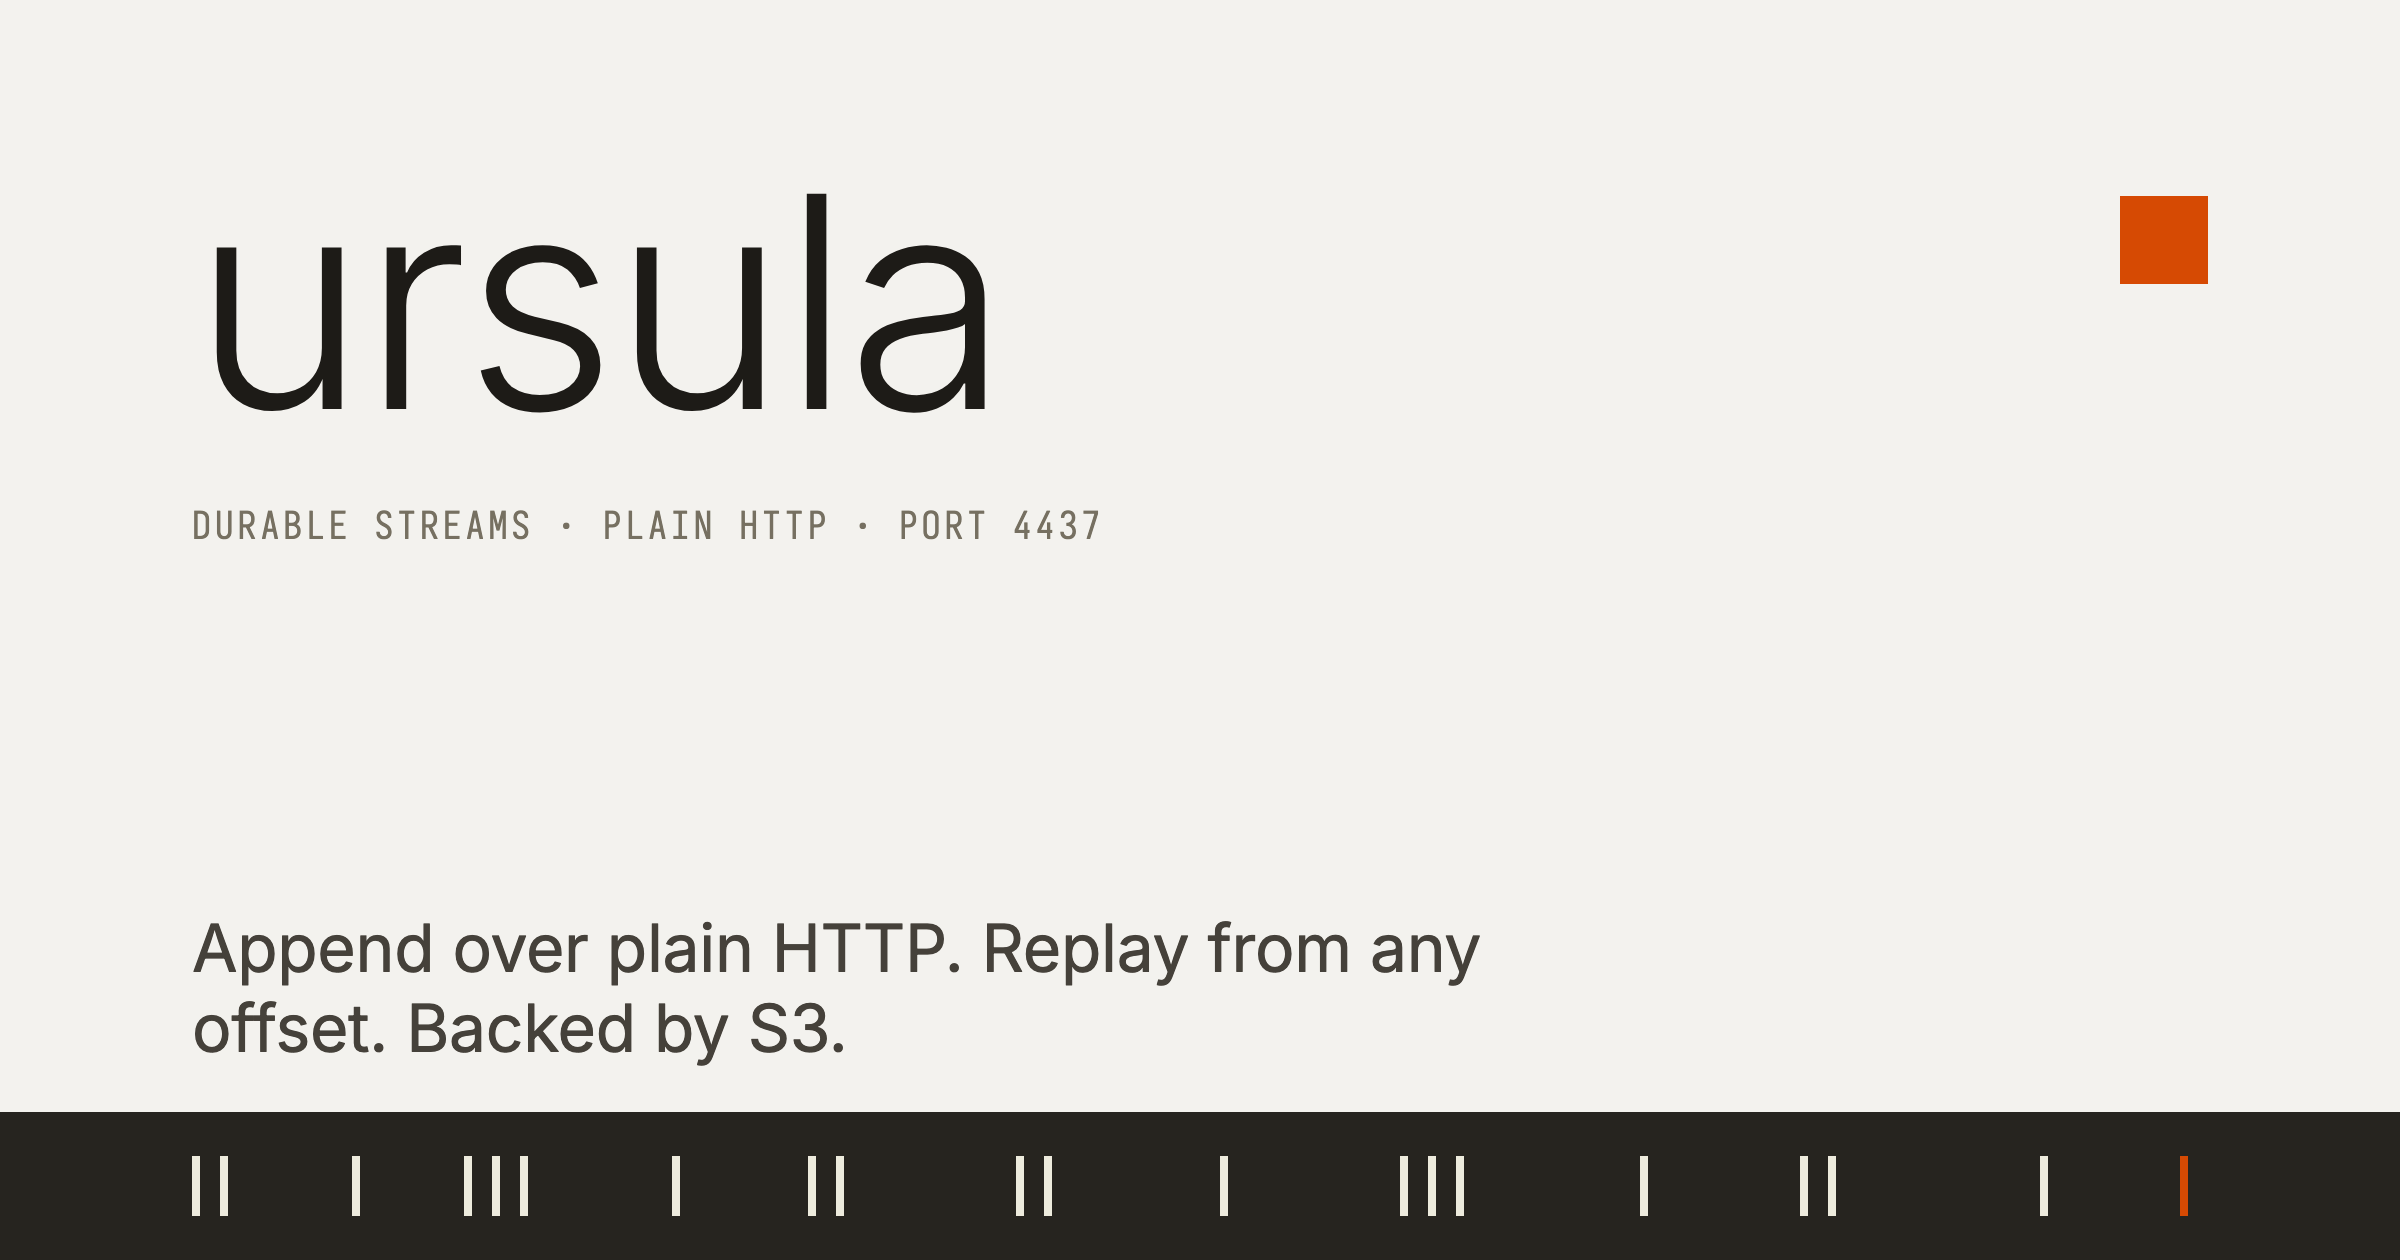
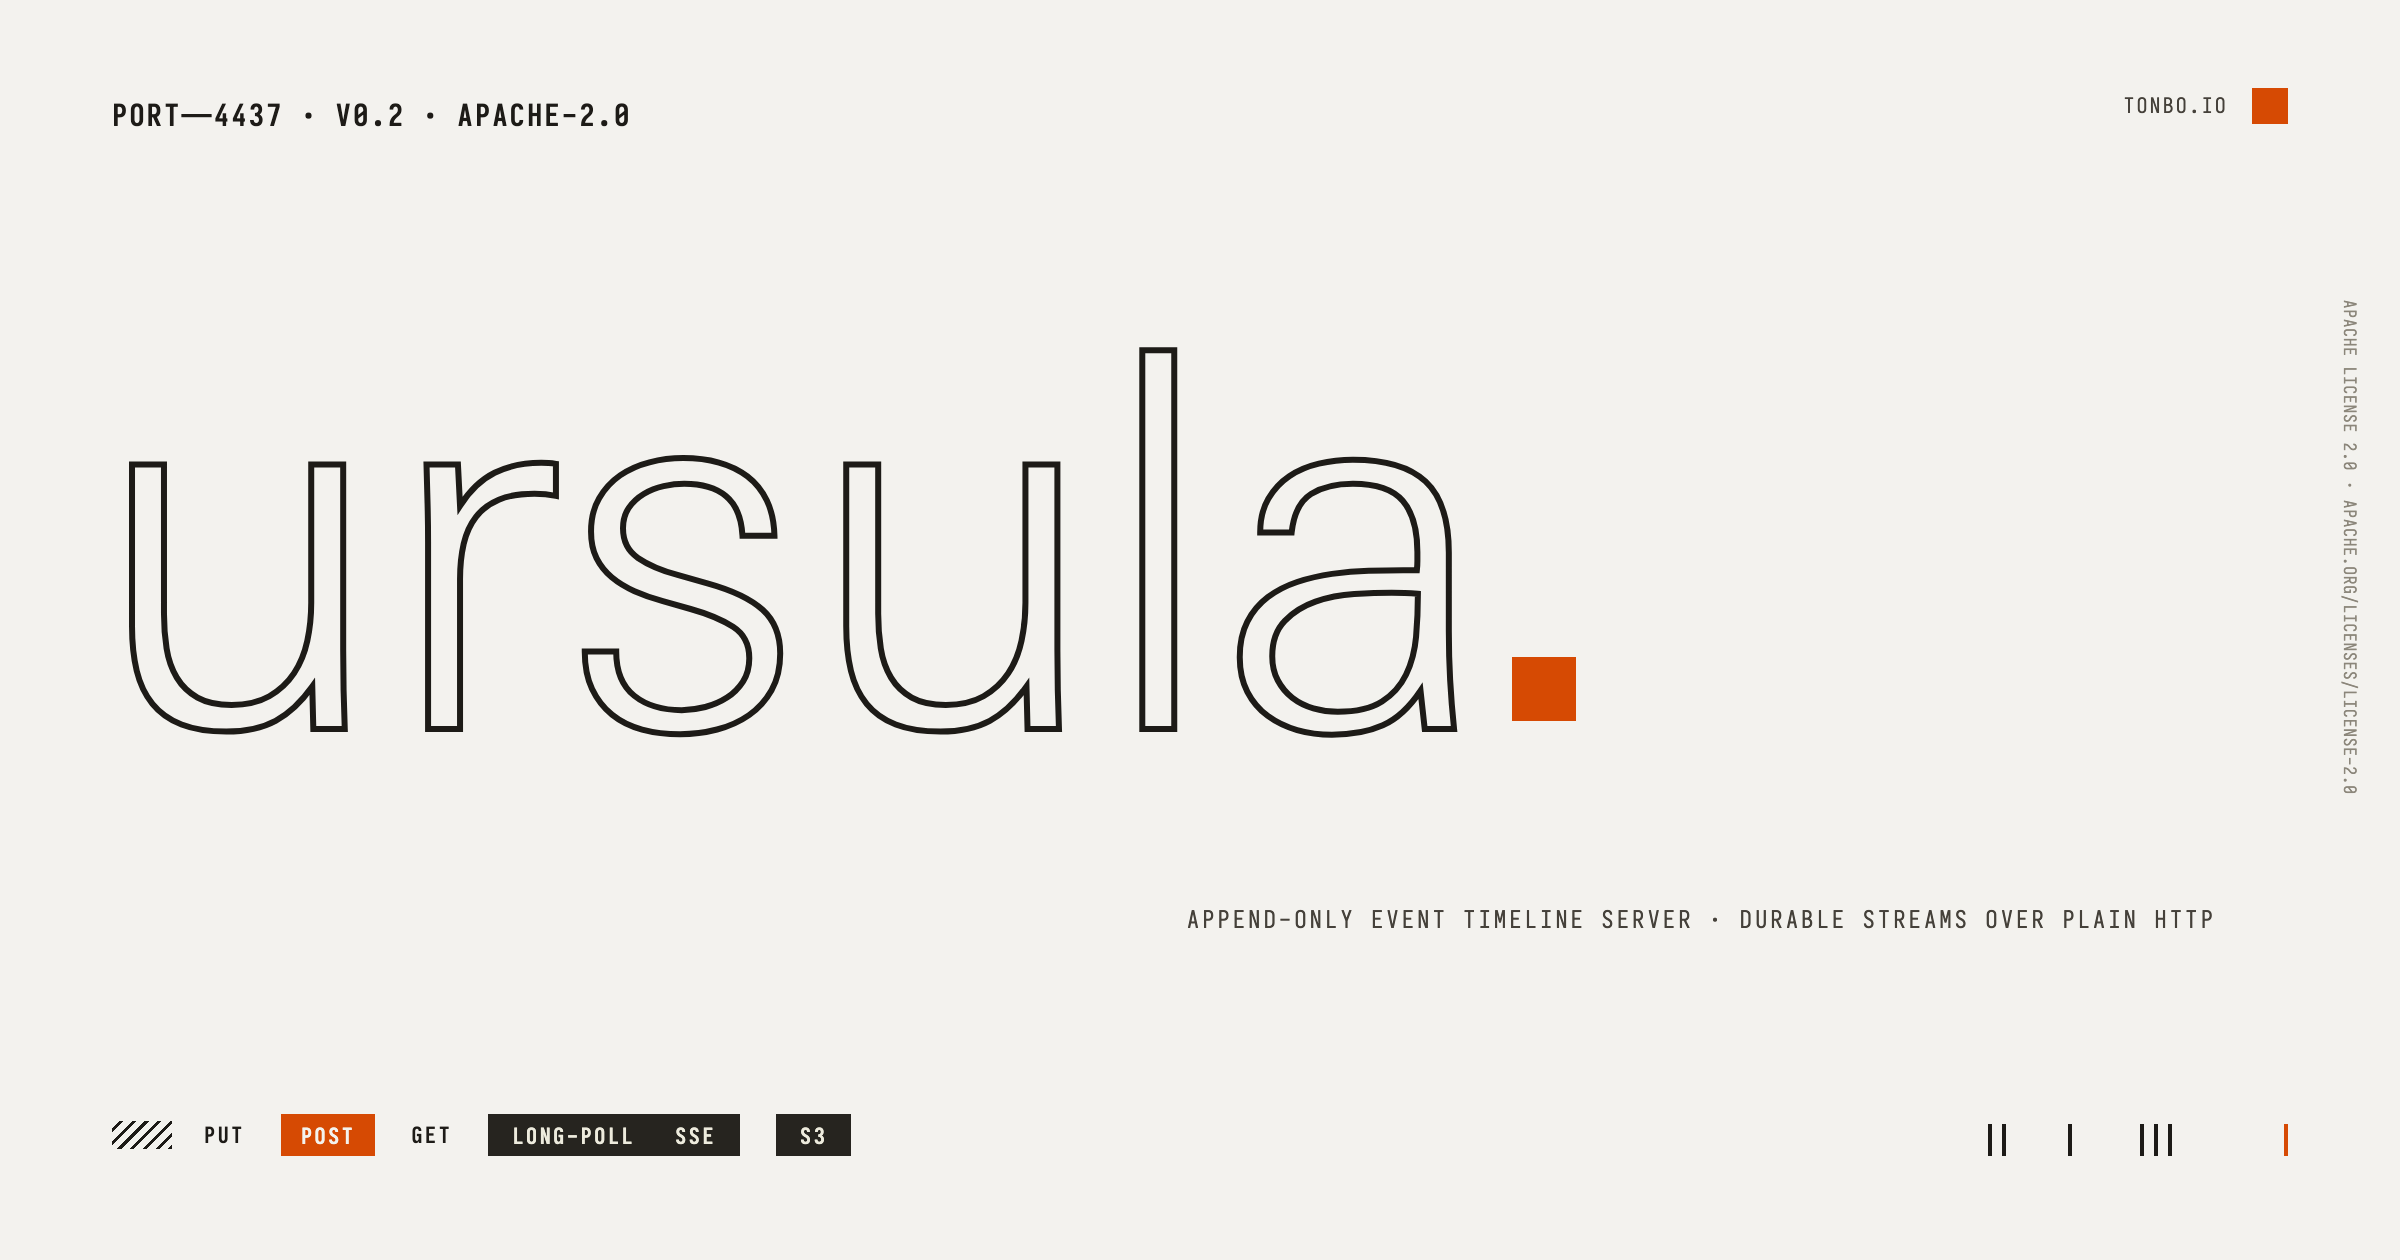
docs(web): ship licensed Univers Next webfonts and TE-style social card
- Serve the licensed Linotype webfont kit (Tonbo-{Thin,Light,Regular,
  Medium}.woff) via url()-only @user; weights remapped one notch
  down TE-style: 100-349 Thin, 350-549 Light, 550-649 Regular, 650+
  Medium. No local() sources, so visitors with stray desktop cuts
  installed render the same bytes as everyone else
- Hero headline set on four explicit lines with "over" on its own line
- Social card rebuilt on the K.O. II grammar: one giant outline
  wordmark with an orange full stop, fine print at the edges (model
  line, maker mark, vertical Apache notice), miniature ports row
  (PUT / POST / GET / LONG-POLL SSE / S3) and event ticks; the card
  master lives at assets/og-card.html and renders with the shipped
  woffs over a local server

diff --git a/docs/web/assets/og-card.html b/docs/web/assets/og-card.html
@@ -1,0 +1,188 @@
+<!DOCTYPE html>
+<html>
+<head>
+<meta charset="utf-8">
+<style>
+  @font-face {
+    font-family: "Univers Next Pro Web";
+    font-weight: 100 349;
+    src: url("/fonts/Tonbo-Thin.woff") format("woff");
+  }
+  @font-face {
+    font-family: "Univers Next Pro Web";
+    font-weight: 350 549;
+    src: url("/fonts/Tonbo-Light.woff") format("woff");
+  }
+  @font-face {
+    font-family: "Univers Next Pro Web";
+    font-weight: 550 1000;
+    src: url("/fonts/Tonbo-Regular.woff") format("woff");
+  }
+  @font-face {
+    font-family: "Iosevka";
+    font-weight: 400;
+    src: url("/fonts/Iosevka-Regular.woff2") format("woff2");
+  }
+  @font-face {
+    font-family: "Iosevka";
+    font-weight: 700;
+    src: url("/fonts/Iosevka-Bold.woff2") format("woff2");
+  }
+  * { margin: 0; padding: 0; box-sizing: border-box; }
+  html, body { width: 1200px; height: 630px; }
+  body {
+    background: #f3f2ee;
+    color: #1d1b17;
+    font-family: "Univers Next Pro Web", "Helvetica Neue", sans-serif;
+    overflow: hidden;
+    position: relative;
+  }
+
+  /* One giant thing; everything else is a whisper at the edges. */
+
+  .model {
+    font-family: "Iosevka", monospace;
+    font-size: 15px;
+    font-weight: 700;
+    left: 56px;
+    letter-spacing: 0.08em;
+    position: absolute;
+    top: 48px;
+  }
+  .maker {
+    align-items: center;
+    display: flex;
+    gap: 12px;
+    position: absolute;
+    right: 56px;
+    top: 44px;
+  }
+  .maker .who {
+    color: #45413a;
+    font-family: "Iosevka", monospace;
+    font-size: 10.5px;
+    letter-spacing: 0.12em;
+    text-transform: uppercase;
+  }
+  .maker .sq { background: #d64a03; height: 18px; width: 18px; }
+
+  .lic {
+    color: #8b867a;
+    font-family: "Iosevka", monospace;
+    font-size: 8.5px;
+    letter-spacing: 0.06em;
+    position: absolute;
+    right: 20px;
+    text-transform: uppercase;
+    top: 150px;
+    writing-mode: vertical-rl;
+  }
+
+  .word {
+    left: 44px;
+    position: absolute;
+    top: 168px;
+  }
+  .word .big {
+    -webkit-text-fill-color: transparent;
+    -webkit-text-stroke: 3px #1d1b17;
+    font-size: 262px;
+    font-weight: 400;
+    letter-spacing: -0.012em;
+    line-height: 1;
+  }
+  .word .stop {
+    background: #d64a03;
+    bottom: 4px;
+    display: inline-block;
+    height: 32px;
+    margin-left: 12px;
+    position: relative;
+    width: 32px;
+  }
+  .category {
+    color: #45413a;
+    font-family: "Iosevka", monospace;
+    font-size: 12px;
+    font-weight: 400;
+    letter-spacing: 0.14em;
+    position: absolute;
+    right: 92px;
+    text-transform: uppercase;
+    top: 452px;
+  }
+
+  .ports {
+    align-items: center;
+    bottom: 52px;
+    display: flex;
+    left: 56px;
+    position: absolute;
+  }
+  .hatch {
+    background: repeating-linear-gradient(-45deg, #1d1b17 0 1.5px, transparent 1.5px 4.5px);
+    height: 14px;
+    margin-right: 16px;
+    width: 30px;
+  }
+  .plabel {
+    font-family: "Iosevka", monospace;
+    font-size: 11px;
+    font-weight: 700;
+    letter-spacing: 0.12em;
+    margin-right: 18px;
+  }
+  .pblock {
+    background: #d64a03;
+    color: #f3f2ee;
+    font-family: "Iosevka", monospace;
+    font-size: 11px;
+    font-weight: 700;
+    letter-spacing: 0.12em;
+    margin-right: 18px;
+    padding: 4px 10px 3px;
+  }
+  .pbar {
+    background: #26241f;
+    color: #edebdd;
+    display: flex;
+    font-family: "Iosevka", monospace;
+    font-size: 11px;
+    font-weight: 700;
+    gap: 20px;
+    letter-spacing: 0.12em;
+    margin-right: 18px;
+    padding: 4px 12px 3px;
+  }
+
+  /* our own event ticks, quiet, one hot */
+  .ticks { bottom: 52px; height: 22px; position: absolute; right: 56px; width: 150px; }
+  .ticks i { background: #1d1b17; bottom: 0; height: 16px; position: absolute; width: 2px; }
+  .ticks i.hot { background: #d64a03; }
+</style>
+</head>
+<body>
+  <div class="model">PORT—4437 · V0.2 · APACHE-2.0</div>
+  <div class="maker"><span class="who">tonbo.io</span><span class="sq"></span></div>
+
+  <div class="lic">apache license 2.0 · apache.org/licenses/license-2.0</div>
+
+  <div class="word"><span class="big">ursula</span><span class="stop"></span></div>
+  <div class="category">append-only event timeline server · durable streams over plain http</div>
+
+  <div class="ports">
+    <div class="hatch"></div>
+    <div class="plabel">PUT</div>
+    <div class="pblock">POST</div>
+    <div class="plabel">GET</div>
+    <div class="pbar"><span>LONG-POLL</span><span>SSE</span></div>
+    <div class="pbar" style="margin-right:0"><span>S3</span></div>
+  </div>
+
+  <div class="ticks">
+    <i style="left:0"></i><i style="left:7px"></i><i style="left:40px"></i>
+    <i style="left:76px"></i><i style="left:83px"></i><i style="left:90px"></i>
+    <i class="hot" style="left:148px"></i>
+  </div>
+</body>
+</html>

diff --git a/docs/web/src/styles/index.css b/docs/web/src/styles/index.css
@@ -1,47 +1,36 @@
-/* Tonbo, weight-remapped onto the cuts the homepage uses. */
+/* Tonbo: Univers Next Pro webfont kit, weight-remapped one notch down
+   (TE-style): declared 300 gets Thin, body 400 gets Light. url() only —
+   no local() fallbacks, so every visitor renders the licensed bytes. */
 @font-face {
   font-family: "Tonbo";
   font-style: normal;
-  font-weight: 100 249;
+  font-weight: 100 349;
   font-display: swap;
-  src:
-    url("/fonts/Tonbo-Thin.woff") format("woff"),
-    local("Univers Next Pro Thin"),
-    local("UniversNextPro-Thin");
+  src: url("/fonts/Tonbo-Thin.woff") format("woff");
 }
 
 @font-face {
   font-family: "Tonbo";
   font-style: normal;
-  font-weight: 250 399;
+  font-weight: 350 549;
   font-display: swap;
-  src:
-    url("/fonts/Tonbo-Light.woff") format("woff"),
-    local("Univers Next Pro Light"),
-    local("UniversNextPro-Light");
+  src: url("/fonts/Tonbo-Light.woff") format("woff");
 }
 
 @font-face {
   font-family: "Tonbo";
   font-style: normal;
-  font-weight: 400 449;
+  font-weight: 550 649;
   font-display: swap;
-  src:
-    url("/fonts/Tonbo-Regular.woff") format("woff"),
-    local("Univers Next Pro Regular"),
-    local("UniversNextPro-Regular"),
-    local("Univers Next Pro");
+  src: url("/fonts/Tonbo-Regular.woff") format("woff");
 }
 
 @font-face {
   font-family: "Tonbo";
   font-style: normal;
-  font-weight: 450 1000;
+  font-weight: 650 1000;
   font-display: swap;
-  src:
-    url("/fonts/Tonbo-Medium.woff") format("woff"),
-    local("Univers Next Pro Medium"),
-    local("UniversNextPro-Medium");
+  src: url("/fonts/Tonbo-Medium.woff") format("woff");
 }
 
 @font-face {

diff --git a/docs/web/src/pages/HomePage.tsx b/docs/web/src/pages/HomePage.tsx
@@ -274,7 +274,9 @@ function HomePage() {
             <h1>
               Durable streams
               <br />
-              over <span className="hx">plain&nbsp;HTTP</span>,
+              over
+              <br />
+              <span className="hx">plain&nbsp;HTTP</span>,
               <br />
               backed by&nbsp;S3.
             </h1>